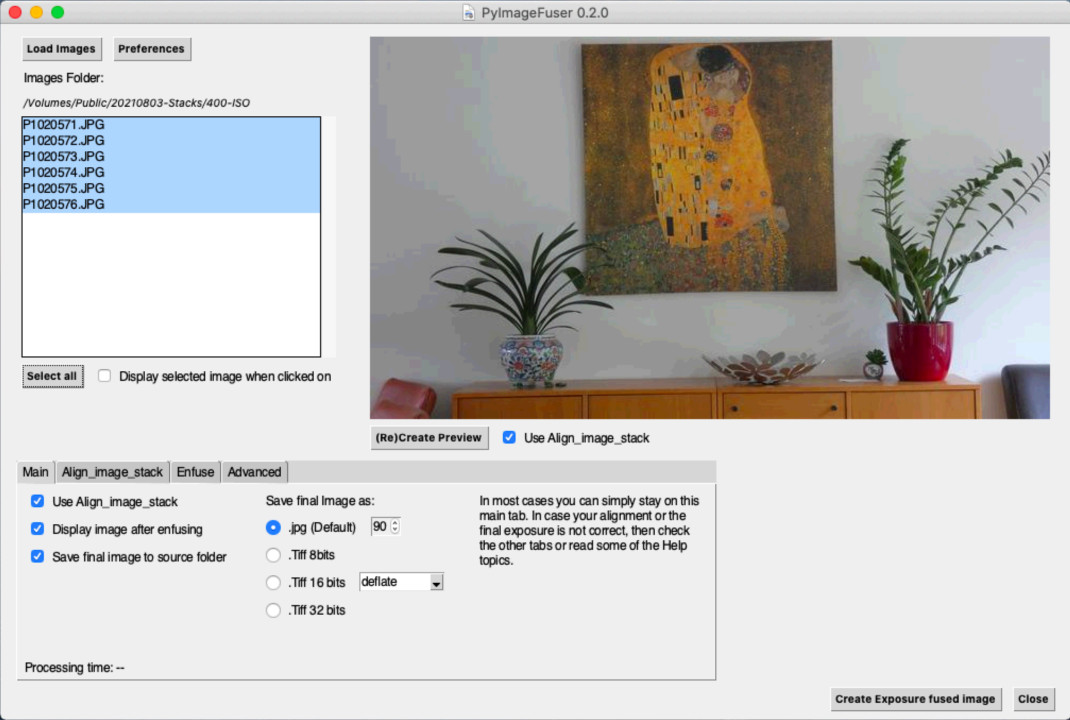
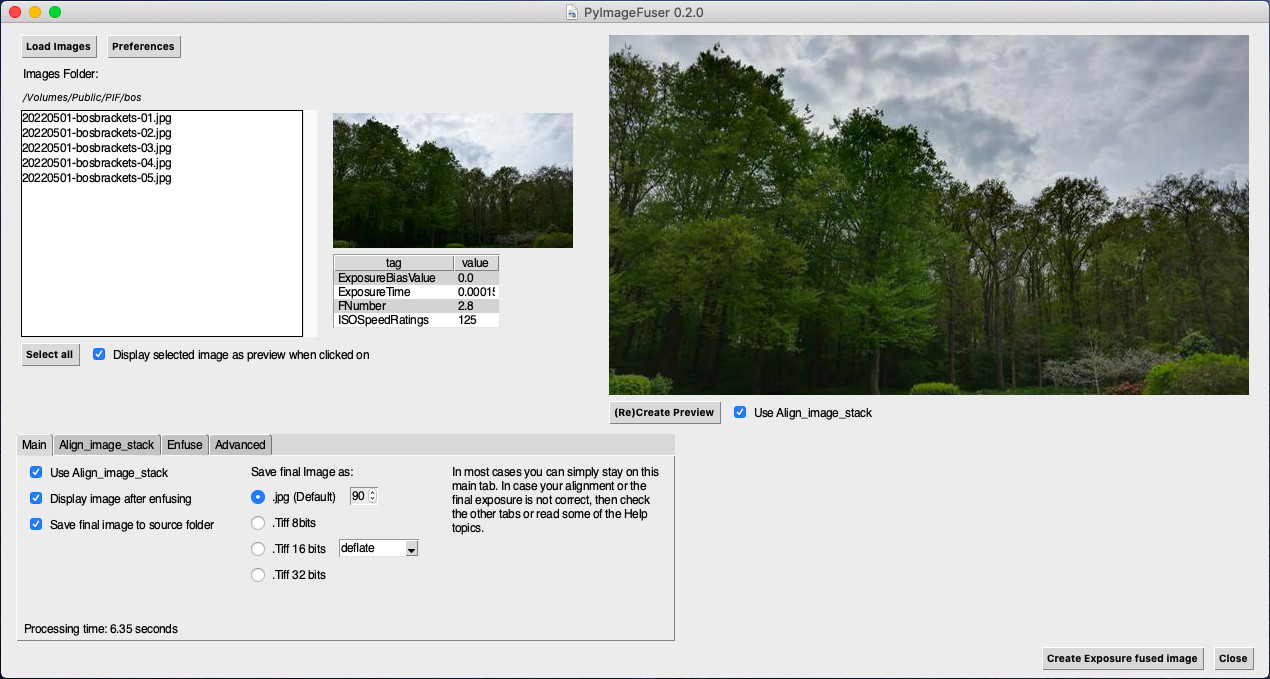
add thumbnails plus exif; update screenshots

diff --git a/image_functions.py b/image_functions.py
@@ -78,11 +78,57 @@ def get_all_exif_info(filename):
                 if v == '0.0' or v == '0' or v == 0.0 or v == 0:
                    reference_image = filename
                    print('reference_image: ', reference_image)
+        # On pillow after jan 2nd 2022 we need additionally the exif.get_ifd(0x8769)
+        for k, v in img.getexif().get_ifd(0x8769).items():
+            tag = TAGS.get(k)
+            exif_dictionary[tag] = v
+            if (tag == 'ExposureBiasValue'):
+                print(TAGS.get(k), ' : ', v)
+                if v == '0.0' or v == '0' or v == 0.0 or v == 0:
+                   reference_image = filename
+                   print('reference_image: ', reference_image)
+
     else:
         exif_dictionary['no exif'] = 'no exif'
     img.close()
 
+    #exif_dictionary = {k: str(v).encode("utf-8") for k,v in exif_dictionary.items()}
     return reference_image, exif_dictionary
+
+def get_relevant_exif_info(filename):
+    exif_dictionary={}
+    reference_image = ""
+
+    img=Image.open(filename)
+    exifd = img.getexif()
+    keys = list(exifd.keys())
+    #exif_dictionary['filename'] = img.filename
+    exif_dictionary['width x height'] = img.size
+    for k, v in exifd.items():
+        tag = TAGS.get(k)
+        print(tag)
+        if (TAGS.get(k) == 'ISOSpeedRatings'): #ID=0x8827
+            print(TAGS.get(k), " : ", v)
+            tag=TAGS.get(k)
+            exif_dictionary[tag]=v
+        if (TAGS.get(k) == 'ExposureTime'): # id=0x829a
+            print(TAGS.get(k), " : ", v)
+            tag=TAGS.get(k)
+            exif_dictionary[tag]=v
+        if (TAGS.get(k) == 'ExposureBiasValue'): # id=0x9204
+            tag=TAGS.get(k)
+            exif_dictionary[tag]=v
+            if v == '0.0' or v == '0' or v == 0.0 or v == 0:
+                reference_image = filename
+                print('reference_image: ', reference_image)
+        if (TAGS.get(k) == 'FNumber'): # id=0x829d
+            print(TAGS.get(k), " : ", v)
+            tag=TAGS.get(k)
+            exif_dictionary[tag]=v
+
+    return reference_image, exif_dictionary
+
+
 
 '''
 # Read some basic exif info from a file

diff --git a/ui_actions.py b/ui_actions.py
@@ -114,6 +114,7 @@ def fill_images_listbox(window, values):
             pathnames.append(file)
             # get all exif date if available
             tmp_reference_image, image_exif_dictionaries[fname] = image_functions.get_all_exif_info(file)
+            #tmp_reference_image, image_exif_dictionaries[fname] = image_functions.get_relevant_exif_info(file)
             if tmp_reference_image != '':
                 reference_image = tmp_reference_image
                 print('reference_image', reference_image)
@@ -127,10 +128,17 @@ def fill_images_listbox(window, values):
 
 def exif_table(window, exif_dict):
     table_data = []
+    exif_list = list(exif_dict.items())
+    print("exif_list: ", exif_list)
     headings = ['tag', 'value']
     keys_to_extract = {'ExposureTime', 'ExposureBiasValue', 'FNumber', 'ISOSpeedRatings'}
     sub_dict = { key:value for key,value in exif_dict.items() if key in keys_to_extract}
+    #print(exif_dict['ExposureTime'])
+    #print(exif_dict['ExposureBiasValue'])
+    #table_data.append()
+    print('sub_dict: ', sub_dict)
     table_data = list(sub_dict.items())
+    #table_data = exif_list
     #print(table_data)
     window['_exiftable_'].update(values=table_data)
 

diff --git a/README.md b/README.md
@@ -25,7 +25,7 @@ More about this, what the parameters mean and tips & tricks to improve your resu
 
 ## Choise of "tools"
 Why use the external enfuse and align_image_stack and not the internal OpenCV/numpy modules to align (alignMTB/ECC/ORB) and exposure fuse (mergeMertens)?  
-I started with [OpenCV](https://github.com/hvdwolf/PyImageFuser/tree/opencv), but in all my tests especially align_image_stack outperforms the OpenCV alignmnent methods. The OpenCV methods are equal at best, but in 50% of the cases they perform worse. Sometimes clearly visible, sometimes visible when zooing in.  
+I started with [OpenCV](https://github.com/hvdwolf/PyImageFuser/tree/opencv), but in all my tests especially align_image_stack outperforms the OpenCV alignmnent methods. The OpenCV methods are equal at best, but in 50% of the cases they perform worse. Sometimes clearly visible, sometimes visible when zooming in.  
 OpenCV mergeMertens is comparable with enfuse (which also uses Mertens), but enfuse is a little more tweakable although you will not use that in 95% of the cases. For "focus stacks" you really need enfuse.
 
 
